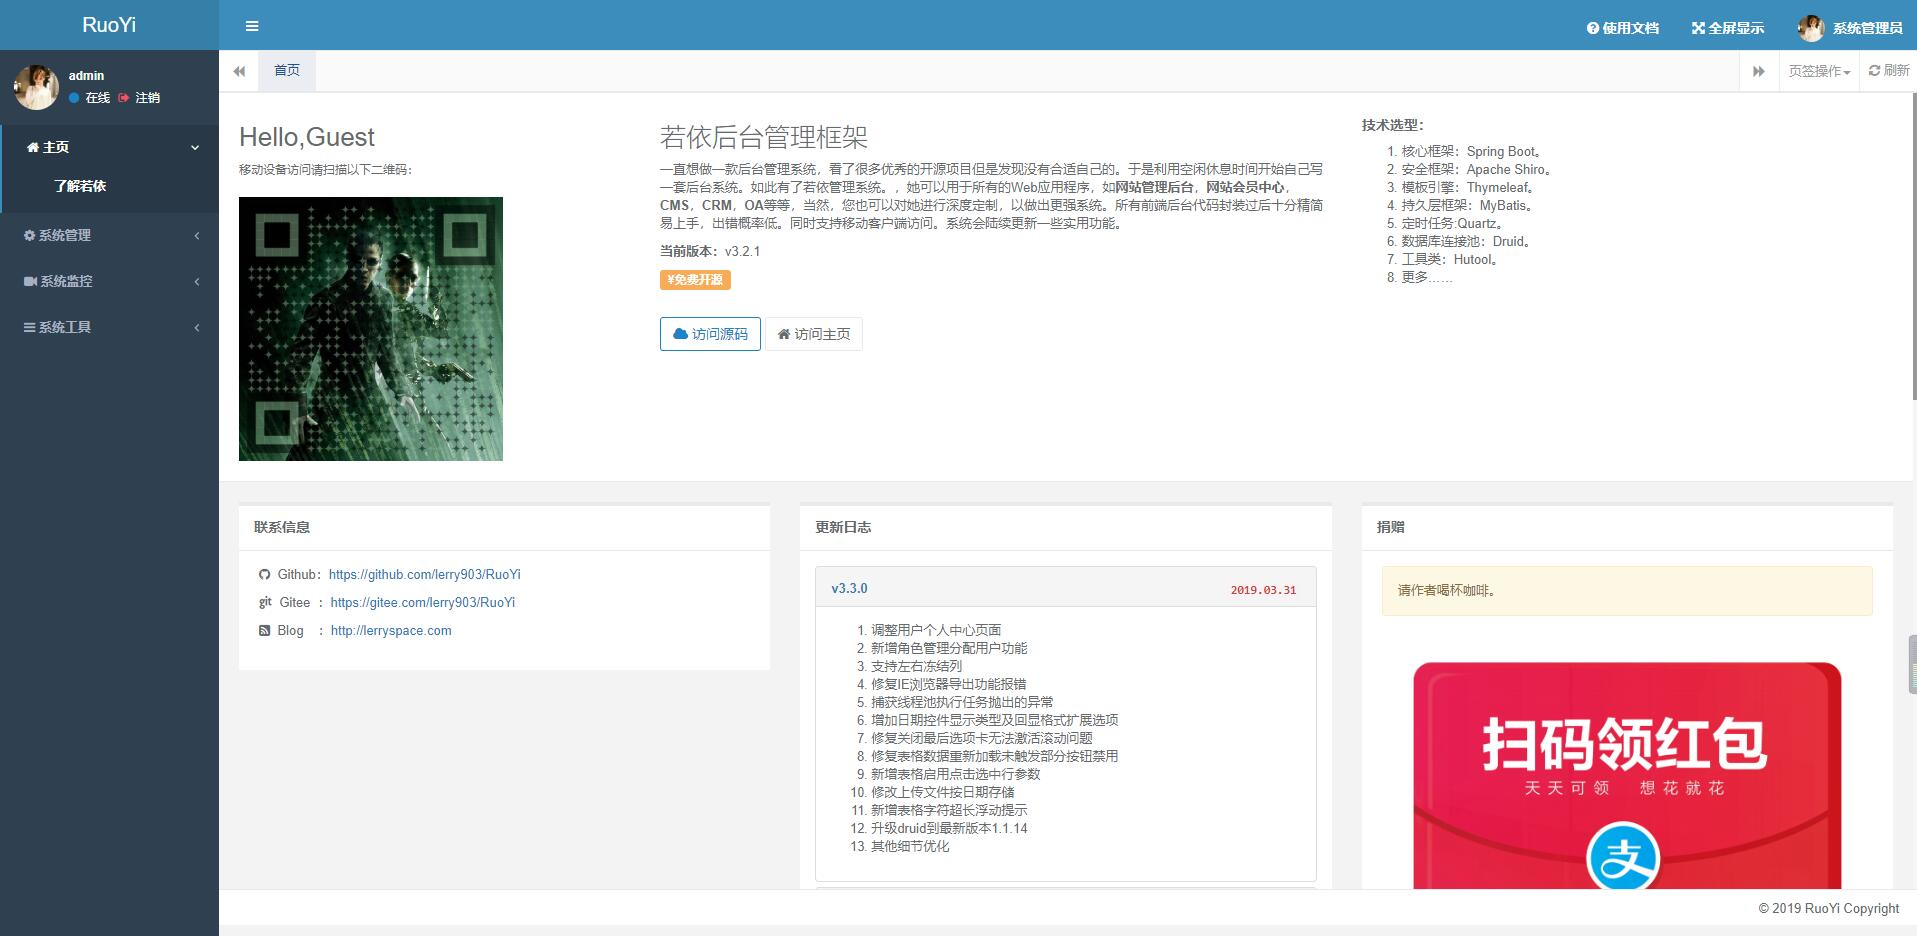
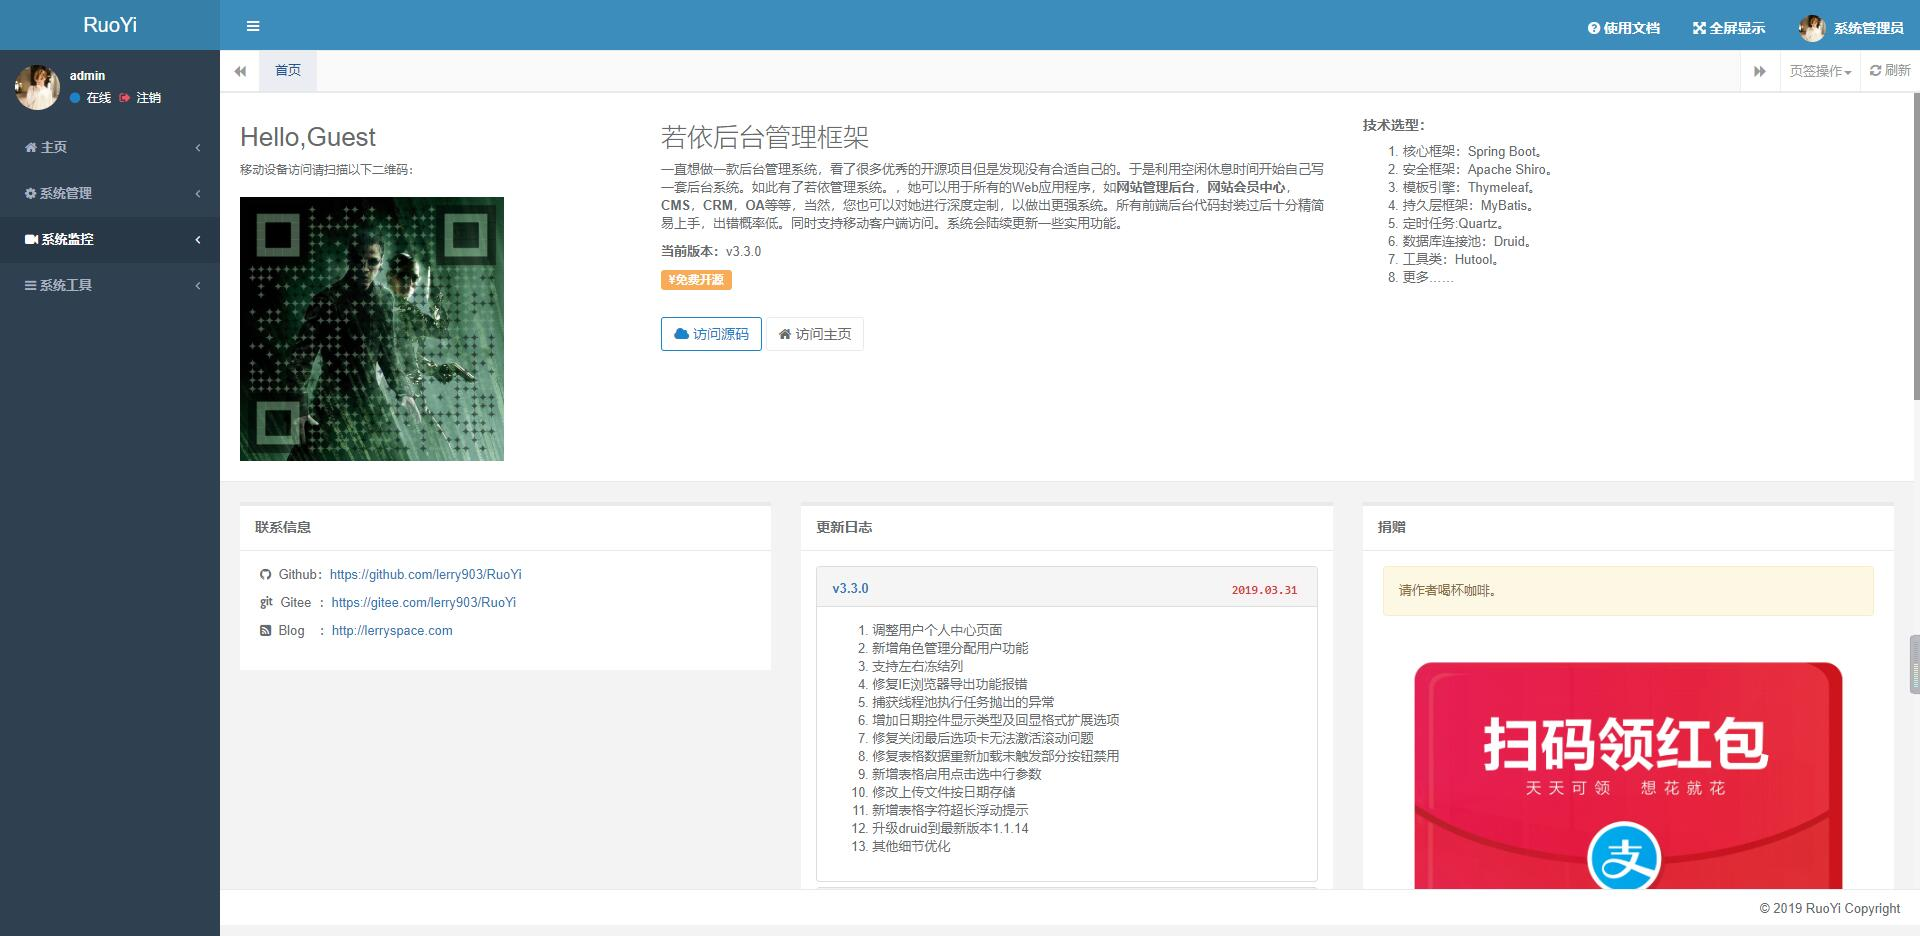
release: 3.3.0

diff --git a/ruoyi-admin/src/main/resources/templates/main.html b/ruoyi-admin/src/main/resources/templates/main.html
@@ -86,13 +86,41 @@
                         <div class="panel-group" id="version">
                             <div class="panel panel-default">
                                 <div class="panel-heading">
+                                    <a data-toggle="collapse" data-parent="#version" href="#v33">
+                                        <h5 class="panel-title">
+                                            v3.3.0<code class="pull-right">2019.03.31</code>
+                                        </h5>
+                                    </a>
+                                </div>
+                                <div id="v33" class="panel-collapse collapse in">
+                                    <div class="panel-body">
+                                        <ol>
+                                            <li>调整用户个人中心页面</li>
+                                            <li>新增角色管理分配用户功能</li>
+                                            <li>支持左右冻结列</li>
+                                            <li>修复IE浏览器导出功能报错</li>
+                                            <li>捕获线程池执行任务抛出的异常</li>
+                                            <li>增加日期控件显示类型及回显格式扩展选项</li>
+                                            <li>修复关闭最后选项卡无法激活滚动问题</li>
+                                            <li>修复表格数据重新加载未触发部分按钮禁用</li>
+                                            <li>新增表格启用点击选中行参数</li>
+                                            <li>修改上传文件按日期存储</li>
+                                            <li>新增表格字符超长浮动提示</li>
+                                            <li>升级druid到最新版本1.1.14</li>
+                                            <li>其他细节优化</li>
+                                        </ol>
+                                    </div>
+                                </div>
+                            </div>
+                            <div class="panel panel-default">
+                                <div class="panel-heading">
                                     <a data-toggle="collapse" data-parent="#version" href="#v321">
                                         <h5 class="panel-title">
                                             v3.2.1<code class="pull-right">2019.03.20</code>
                                         </h5>
                                     </a>
                                 </div>
-                                <div id="v321" class="panel-collapse collapse in">
+                                <div id="v321" class="panel-collapse collapse">
                                     <div class="panel-body">
                                         <ol>
                                             <li>升级SpringBoot到最新版本2.1.3</li>

diff --git a/ruoyi-common/src/main/java/com/ruoyi/common/config/Global.java b/ruoyi-common/src/main/java/com/ruoyi/common/config/Global.java
@@ -77,7 +77,7 @@ public class Global {
      * 获取项目版本
      */
     public static String getVersion() {
-        return StringUtils.nvl(getConfig("ruoyi.version"), "3.2.1");
+        return StringUtils.nvl(getConfig("ruoyi.version"), "3.3.0");
     }
 
     /**

diff --git a/README.md b/README.md
@@ -44,32 +44,36 @@
 
 <table>
     <tr>
-        <td><img src="https://oscimg.oschina.net/oscnet/25b5e333768d013d45a990c152dbe4d9d6e.jpg"/></td>
-        <td><img src="https://oscimg.oschina.net/oscnet/dfadf4d864242745486aa0167110dfcbeb8.jpg"/></td>
+        <td><img src="https://raw.githubusercontent.com/lerry903/RuoYi/master/img/login.jpg"/></td>
+        <td><img src="https://raw.githubusercontent.com/lerry903/RuoYi/master/img/index.jpg"/></td>
     </tr>
     <tr>
-        <td><img src="https://oscimg.oschina.net/oscnet/2e1ed87df9b476ed73ed650df20cf009b78.jpg"/></td>
-        <td><img src="https://oscimg.oschina.net/oscnet/693955d8914ee3c34ab904fa0602bc31267.jpg"/></td>
+        <td><img src="https://raw.githubusercontent.com/lerry903/RuoYi/master/img/user_list.jpg"/></td>
+        <td><img src="https://raw.githubusercontent.com/lerry903/RuoYi/master/img/user_update.jpg"/></td>
     </tr>
     <tr>
-        <td><img src="https://oscimg.oschina.net/oscnet/9a2851988f4e7433c9322154534865f57d7.jpg"/></td>
-        <td><img src="https://oscimg.oschina.net/oscnet/396293f80b1e8cce8671f56c296bee78a3a.jpg"/></td>
+        <td><img src="https://raw.githubusercontent.com/lerry903/RuoYi/master/img/role_list.jpg"/></td>
+        <td><img src="https://raw.githubusercontent.com/lerry903/RuoYi/master/img/role_update.jpg"/></td>
     </tr>
+	<tr>
+        <td><img src="https://raw.githubusercontent.com/lerry903/RuoYi/master/img/user_role.jpg"/></td>
+        <td><img src="https://raw.githubusercontent.com/lerry903/RuoYi/master/img/role_data.jpg"/></td>
+    </tr>	 
     <tr>
-        <td><img src="https://oscimg.oschina.net/oscnet/787b3b06430a403655b48b9bcd1fa829555.jpg"/></td>
-        <td><img src="https://oscimg.oschina.net/oscnet/a51820009836276b778bc89d4d0e217e26d.jpg"/></td>
+        <td><img src="https://raw.githubusercontent.com/lerry903/RuoYi/master/img/function.jpg"/></td>
+        <td><img src="https://raw.githubusercontent.com/lerry903/RuoYi/master/img/function_update.jpg"/></td>
     </tr>
 	<tr>
-        <td><img src="https://oscimg.oschina.net/oscnet/5fb138478adeda6825e206d21f67ecd0625.jpg"/></td>
-        <td><img src="https://oscimg.oschina.net/oscnet/fa2f027a10707a4eb4fc47d5ea1c3d2b772.jpg"/></td>
+        <td><img src="https://raw.githubusercontent.com/lerry903/RuoYi/master/img/gen_code.jpg"/></td>
+        <td><img src="https://raw.githubusercontent.com/lerry903/RuoYi/master/img/user.jpg"/></td>
     </tr>
 	<tr>
-        <td><img src="https://oscimg.oschina.net/oscnet/a714056081523b7dfa782cda866e8be4adc.jpg"/></td>
-        <td><img src="https://oscimg.oschina.net/oscnet/ab4b5797dfb2bc68c4974ad5458bd5f5bcf.jpg"/></td>
+        <td><img src="https://raw.githubusercontent.com/lerry903/RuoYi/master/img/oper_log.jpg"/></td>
+        <td><img src="https://raw.githubusercontent.com/lerry903/RuoYi/master/img/login_log.jpg"/></td>
     </tr>
 	<tr>
-        <td><img src="https://oscimg.oschina.net/oscnet/98beb69118d9ab59aa898d5d5baad20b755.jpg"/></td>
-        <td><img src="https://oscimg.oschina.net/oscnet/5f3d39a141f21f81b90536f391b8408f1fa.jpg"/></td>
+        <td><img src="https://raw.githubusercontent.com/lerry903/RuoYi/master/img/server_monitoring.jpg"/></td>
+        <td><img src="https://raw.githubusercontent.com/lerry903/RuoYi/master/img/prize.jpg"/></td>
     </tr>
 </table>
 
